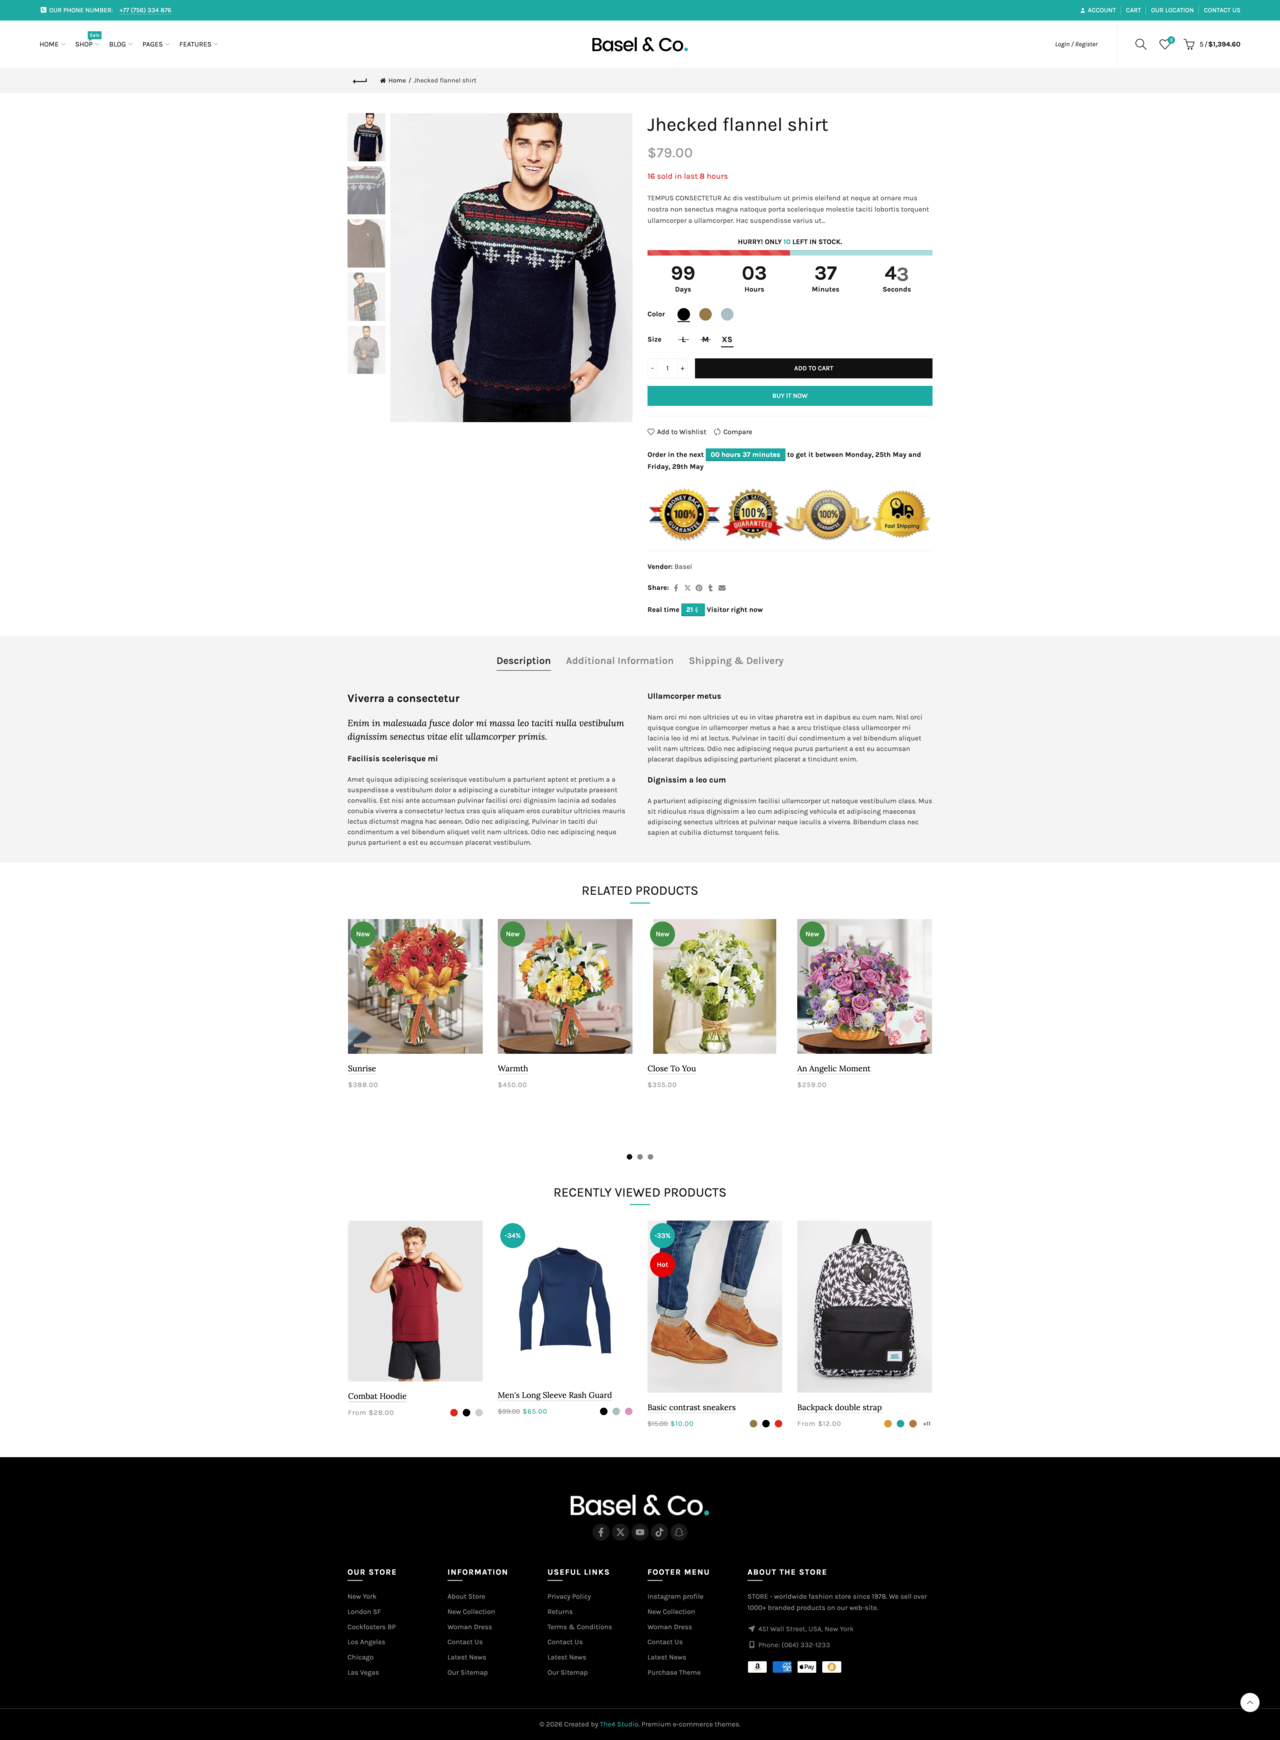
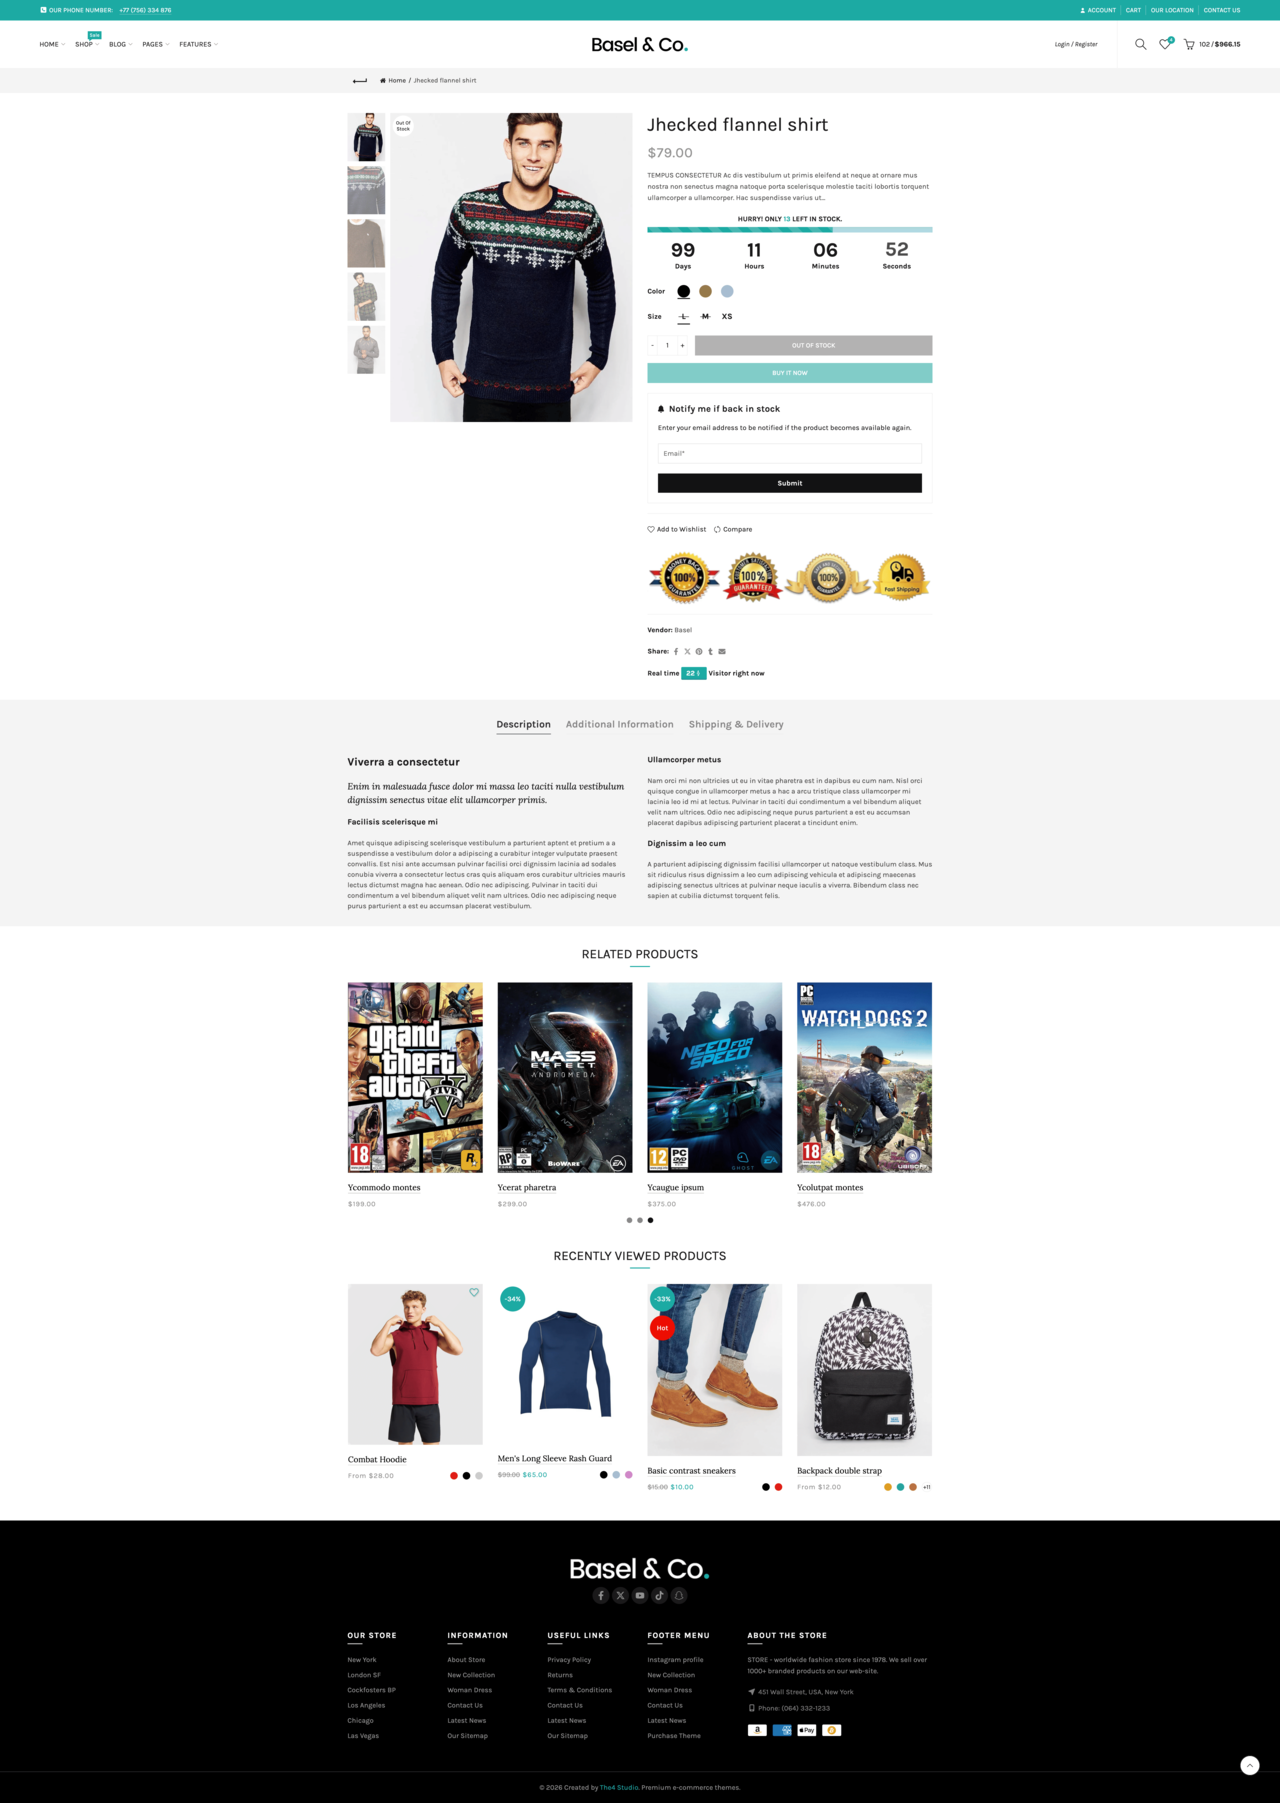
update

diff --git a/src/style/global.css b/src/style/global.css
@@ -65,7 +65,7 @@ body {
 .text-align-right{
   text-align: end;
 }
-@media (width < 767px){
+@media (width < 1025px){
   .hide-br-mobile{
     br{
       display: none;
